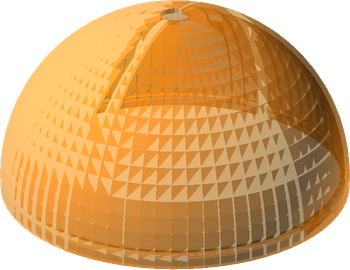
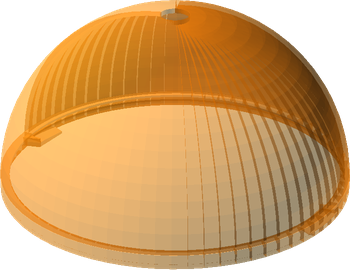
Reworked STL view rendering

diff --git a/hardware/vitamins.py b/hardware/vitamins.py
@@ -10,6 +10,7 @@ import c14n_stl
 import re
 
 from views import polish;
+from views import render_view;
 
 source_dir = 'vitamins'
 
@@ -101,68 +102,7 @@ def vitamins(force_update):
                     else:
                         print fn + " is up to date"
                         
-            # Generate vitamin view
-            print("Checking for _View")
-            #
-            # make a file to use the module
-            #
-            temp_name = source_dir + "/temp.scad"
-            f = open(temp_name, "w")
-            f.write("include <../config/config.scad>\n")
-            f.write(t + "_View();\n");
-            f.close()
-            #
-            # Run openscad
-            #
-            openscad.run("-D","$bom=2","-o", "dummy.csg", temp_name)
-
-            # Generate view
-            for line in open("openscad.log"):
-                pos = line.find('ECHO: "')
-                if pos > -1:
-                    s = line[pos + 7 : line.rfind('"')]
-                    print("Generating view: "+s)
-                    
-                    s = s.split();
-                    
-                    # Up-sample images
-                    w = int(s[0]) * 2
-                    h = int(s[1]) * 2
-                    
-                    dx = float(s[2])
-                    dy = float(s[3])
-                    dz = float(s[4])
-                    
-                    rx = float(s[5])
-                    ry = float(s[6])
-                    rz = float(s[7])
-                    
-                    d = float(s[8])
-                    camera = "%.2f,%.2f,%.2f,%.2f,%.2f,%.2f,%.2f" % (dx, dy, dz, rx, ry, rz, d)
-                    
-                    png_name = view_dir + '/' + t + '_' + targets[t] + '.png'
-                    
-                    # make a file to use the module
-                    #
-                    view_maker_name = source_dir + "/temp.scad"
-                    f = open(view_maker_name, "w")
-                    f.write("include <../config/config.scad>\n")
-                    f.write("UseSTL=false;\n");
-                    f.write("UseVitaminSTL=false;\n");
-                    f.write("DebugConnectors=false;\n");
-                    f.write("DebugCoordinateFrames=false;\n");
-                    f.write(t + "(" + t +'_'+ targets[t] + "); \n");
-                    f.close()
-                    
-                    if (force_update) or (not os.path.isfile(png_name) or os.path.getmtime(png_name) < os.path.getmtime(fn)):                    
-						openscad.run("--projection=p",
-									("--imgsize=%d,%d" % (w, h)),
-									"--camera=" + camera,
-									"-o", png_name, 
-									view_maker_name)
-									
-						polish(png_name, w/2, h/2)
-                    print
+            render_view(t, t+'_'+targets[t], source_dir, view_dir)
                     
 
 if __name__ == '__main__':

diff --git a/hardware/views.py b/hardware/views.py
@@ -61,6 +61,75 @@ def polish(filename, w, h):
     img.save(filename)
 
 
+def render_view(module_name, type_name, source_dir, view_dir):
+    # Generate view
+    print("Checking for _View")
+    #
+    # make a file to use the module
+    #
+    temp_name = source_dir + "/temp.scad"
+    f = open(temp_name, "w")
+    f.write("include <../config/config.scad>\n")
+    f.write(module_name + "_View();\n");
+    f.close()
+    #
+    # Run openscad
+    #
+    openscad.run("-D","$bom=2","-o", "dummy.csg", temp_name)
+
+    # Generate view
+    for line in open("openscad.log"):
+        pos = line.find('ECHO: "')
+        if pos > -1:
+            s = line[pos + 7 : line.rfind('"')]
+            print("Generating view: "+s)
+            
+            s = s.split();
+            
+            # Up-sample images
+            w = int(s[0]) * 2
+            h = int(s[1]) * 2
+            
+            dx = float(s[2])
+            dy = float(s[3])
+            dz = float(s[4])
+            
+            rx = float(s[5])
+            ry = float(s[6])
+            rz = float(s[7])
+            
+            d = float(s[8])
+            camera = "%.2f,%.2f,%.2f,%.2f,%.2f,%.2f,%.2f" % (dx, dy, dz, rx, ry, rz, d)
+            
+            if type_name != '':
+                png_name = view_dir + '/' + type_name + '.png'
+            else:
+                png_name = view_dir + '/' + module_name + '.png'
+            
+            # make a file to use the module
+            #
+            view_maker_name = source_dir + "/temp.scad"
+            f = open(view_maker_name, "w")
+            f.write("include <../config/config.scad>\n")
+            f.write("UseSTL=false;\n");
+            f.write("UseVitaminSTL=false;\n");
+            f.write("DebugConnectors=false;\n");
+            f.write("DebugCoordinateFrames=false;\n");
+            if type_name != '':
+                f.write(module_name + "(" + type_name + "); \n");
+            else:
+                f.write(module_name + "(); \n");
+            f.close()
+                                           
+            openscad.run("--projection=p",
+                        ("--imgsize=%d,%d" % (w, h)),
+                        "--camera=" + camera,
+                        "-o", png_name, 
+                        view_maker_name)
+                        
+            polish(png_name, w/2, h/2)
+            print
+
 
 def views(force_update):
     print("Views")

diff --git a/hardware/stls.py b/hardware/stls.py
@@ -8,6 +8,7 @@ import c14n_stl
 import re
 
 from bom import source_dir
+from views import render_view
 
 def bom_to_stls(assembly = None):
     #
@@ -27,6 +28,8 @@ def bom_to_stls(assembly = None):
 def stls(parts = None):
     print("STL")
     print("---")
+    
+    view_dir = 'images'
     
     #
     # Make the target directory
@@ -85,6 +88,9 @@ def stls(parts = None):
                         for line in open("openscad.log"):
                             if line[:7] == 'ECHO: "' and line[-6:] == '.stl"\n':
                                 used.append(line[7:-2])
+                                
+                        # Attempt to render a view of the STL
+                        render_view( module[:-4] + '_STL', '', target_dir, view_dir)
     #
     # List the ones we didn't find
     #
